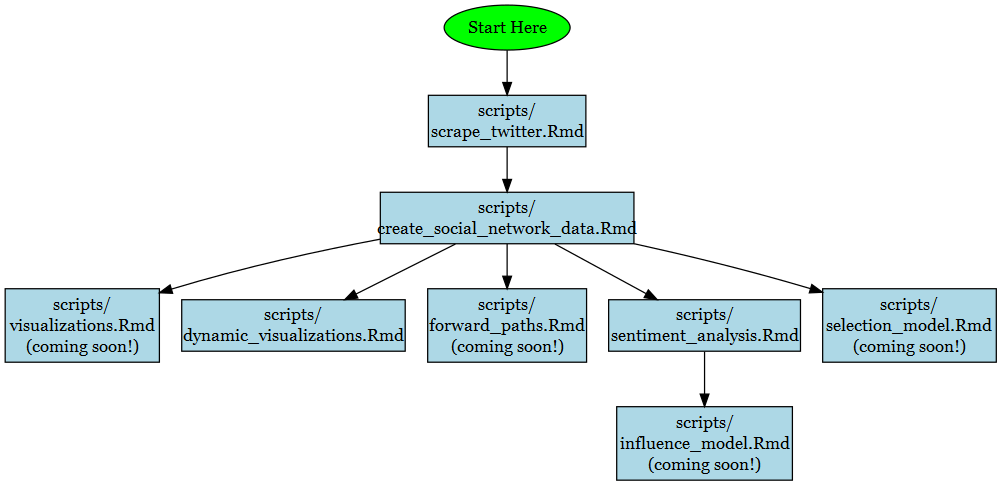
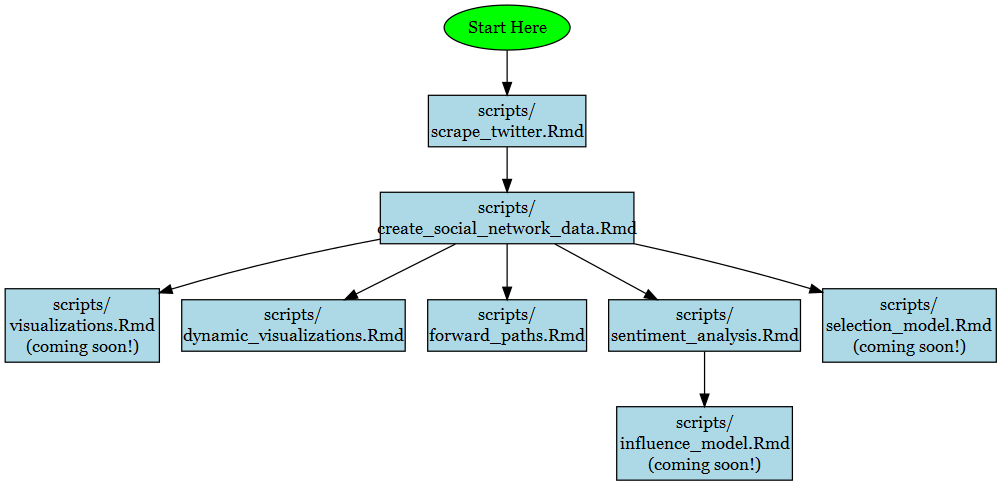
Remove 'coming soon' for forward paths.

Changed region(s): [[0.4026, 0.5567, 0.5884, 0.7732]]

diff --git a/README.md b/README.md
@@ -110,8 +110,8 @@ TWITTER_BEARER=YOURTOKENHERE
 academictwitteR::set_bearer()
 ```
 
-Save the changes to the environment and close. Go to Session and Restart
-R.
+Save the changes to the environment and close the file. Go to Session
+and Restart R.
 
 Now you will have a system environment variable in memory that contains
 your bearer token. You can retrieve it using the following command.
